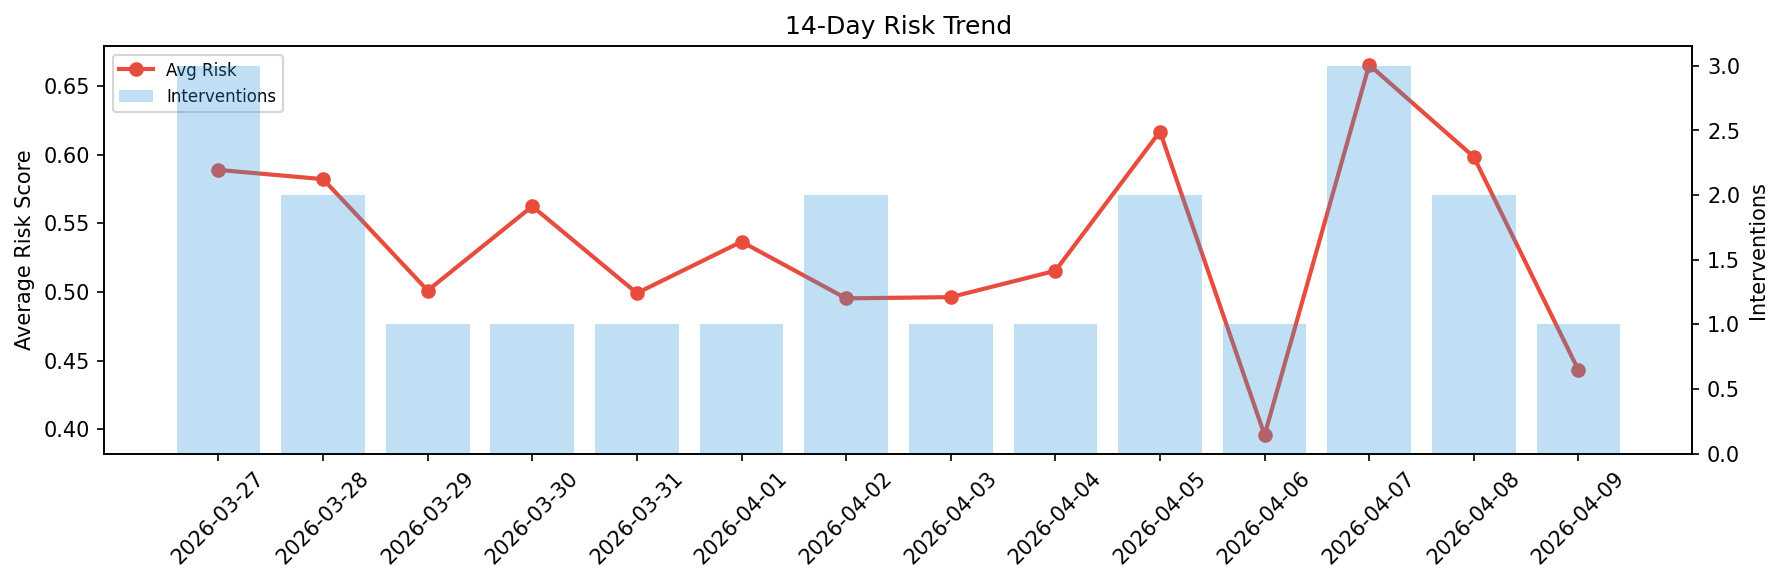
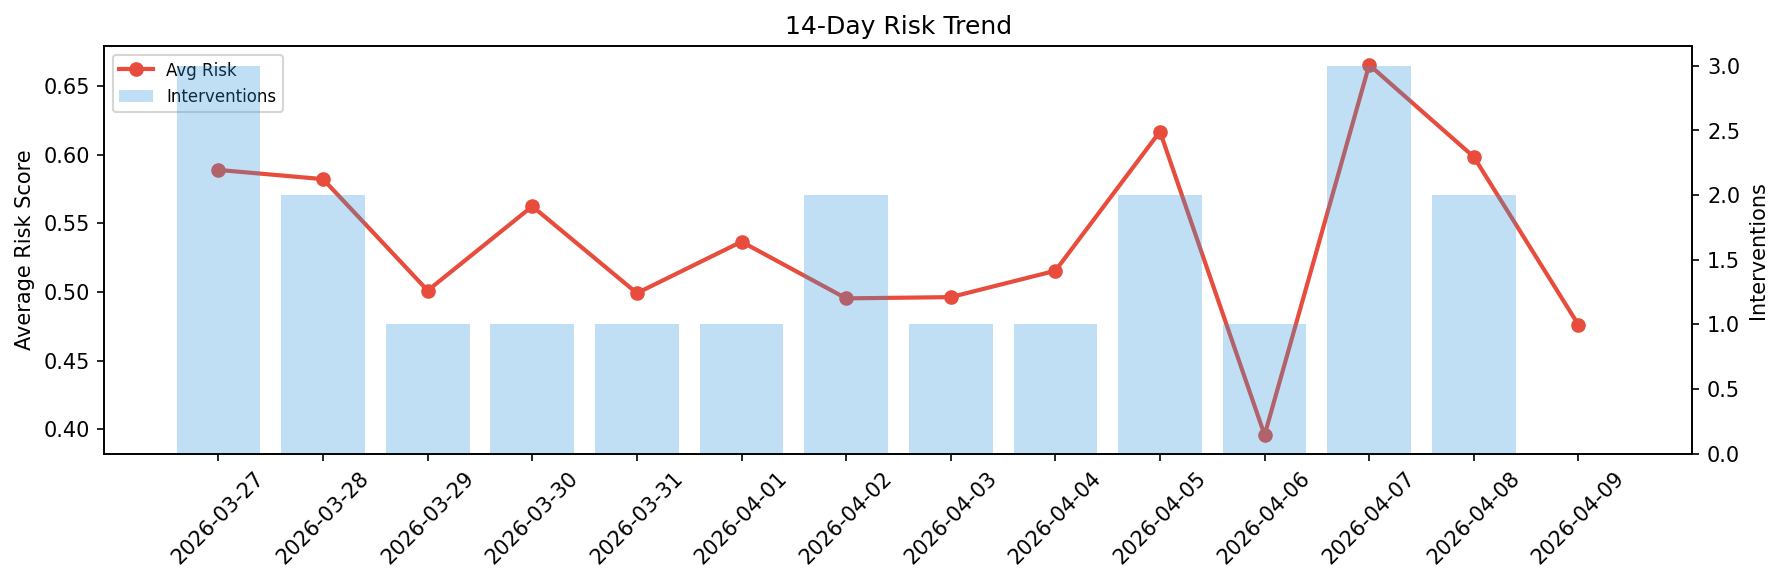
agent-improvement: daily cycle 2026-04-09T15:55

Changed region(s): [[0.8637, 0.4631, 0.9254, 0.8027], [0.8329, 0.3087, 0.8637, 0.4631]]

diff --git a/logs/2026-04-09.md b/logs/2026-04-09.md
@@ -1,6 +1,6 @@
 # Agent Improvement Report — 2026-04-09
 
-**Cycle ID:** `7c0167f5` | **Avg Risk:** 0.443 | **Interventions:** 1/4
+**Cycle ID:** `78068ce3` | **Avg Risk:** 0.476 | **Interventions:** 0/4
 
 ![Dashboard](2026-04-09_dashboard.png)
 
@@ -10,18 +10,18 @@
 
 | Domain | Risk Score | Decision | Alerts |
 |--------|-----------|----------|--------|
-| code_review | 0.1857 | monitor | none |
-| incident_response | 0.3878 | monitor | severity |
-| data_pipeline | 0.7703 | intervene | freshness, volume_anomaly |
-| deployment | 0.4281 | monitor | latency_p99 |
+| code_review | 0.5378 | monitor | coverage |
+| incident_response | 0.2585 | monitor | none |
+| data_pipeline | 0.5462 | monitor | none |
+| deployment | 0.5616 | monitor | none |
 
 ## Delta vs Yesterday
 
 | Domain | Today | Yesterday | Change |
 |--------|-------|-----------|--------|
-| code_review | 0.1857 | 0.5131 | 📉 -63.8% |
-| incident_response | 0.3878 | 0.7135 | 📉 -45.6% |
-| data_pipeline | 0.7703 | 0.776 | 📉 -0.7% |
-| deployment | 0.4281 | 0.3908 | 📈 9.5% |
+| code_review | 0.5378 | 0.5131 | 📈 4.8% |
+| incident_response | 0.2585 | 0.7135 | 📉 -63.8% |
+| data_pipeline | 0.5462 | 0.776 | 📉 -29.6% |
+| deployment | 0.5616 | 0.3908 | 📈 43.7% |
 
 **Refinement:** `{'adjustment': 'tighten_thresholds', 'trend': 'degrading', 'window': 4}`
